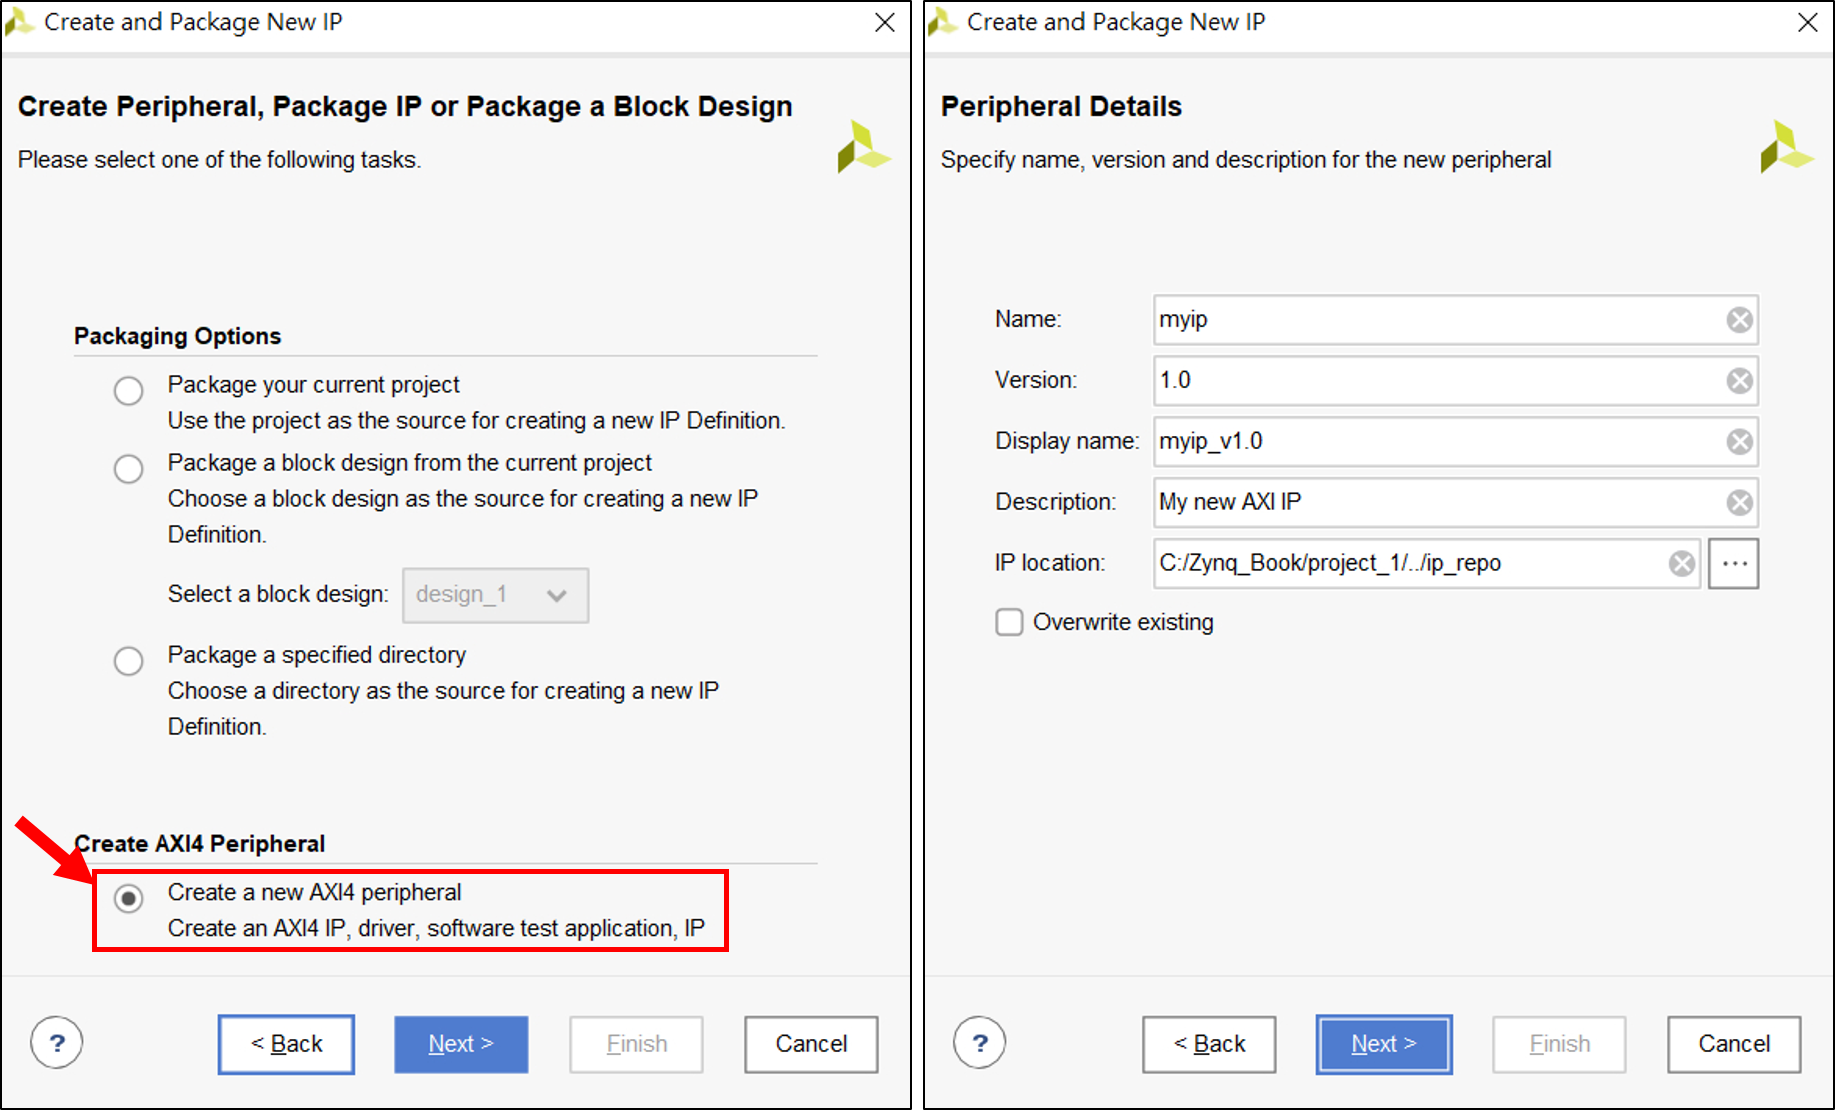
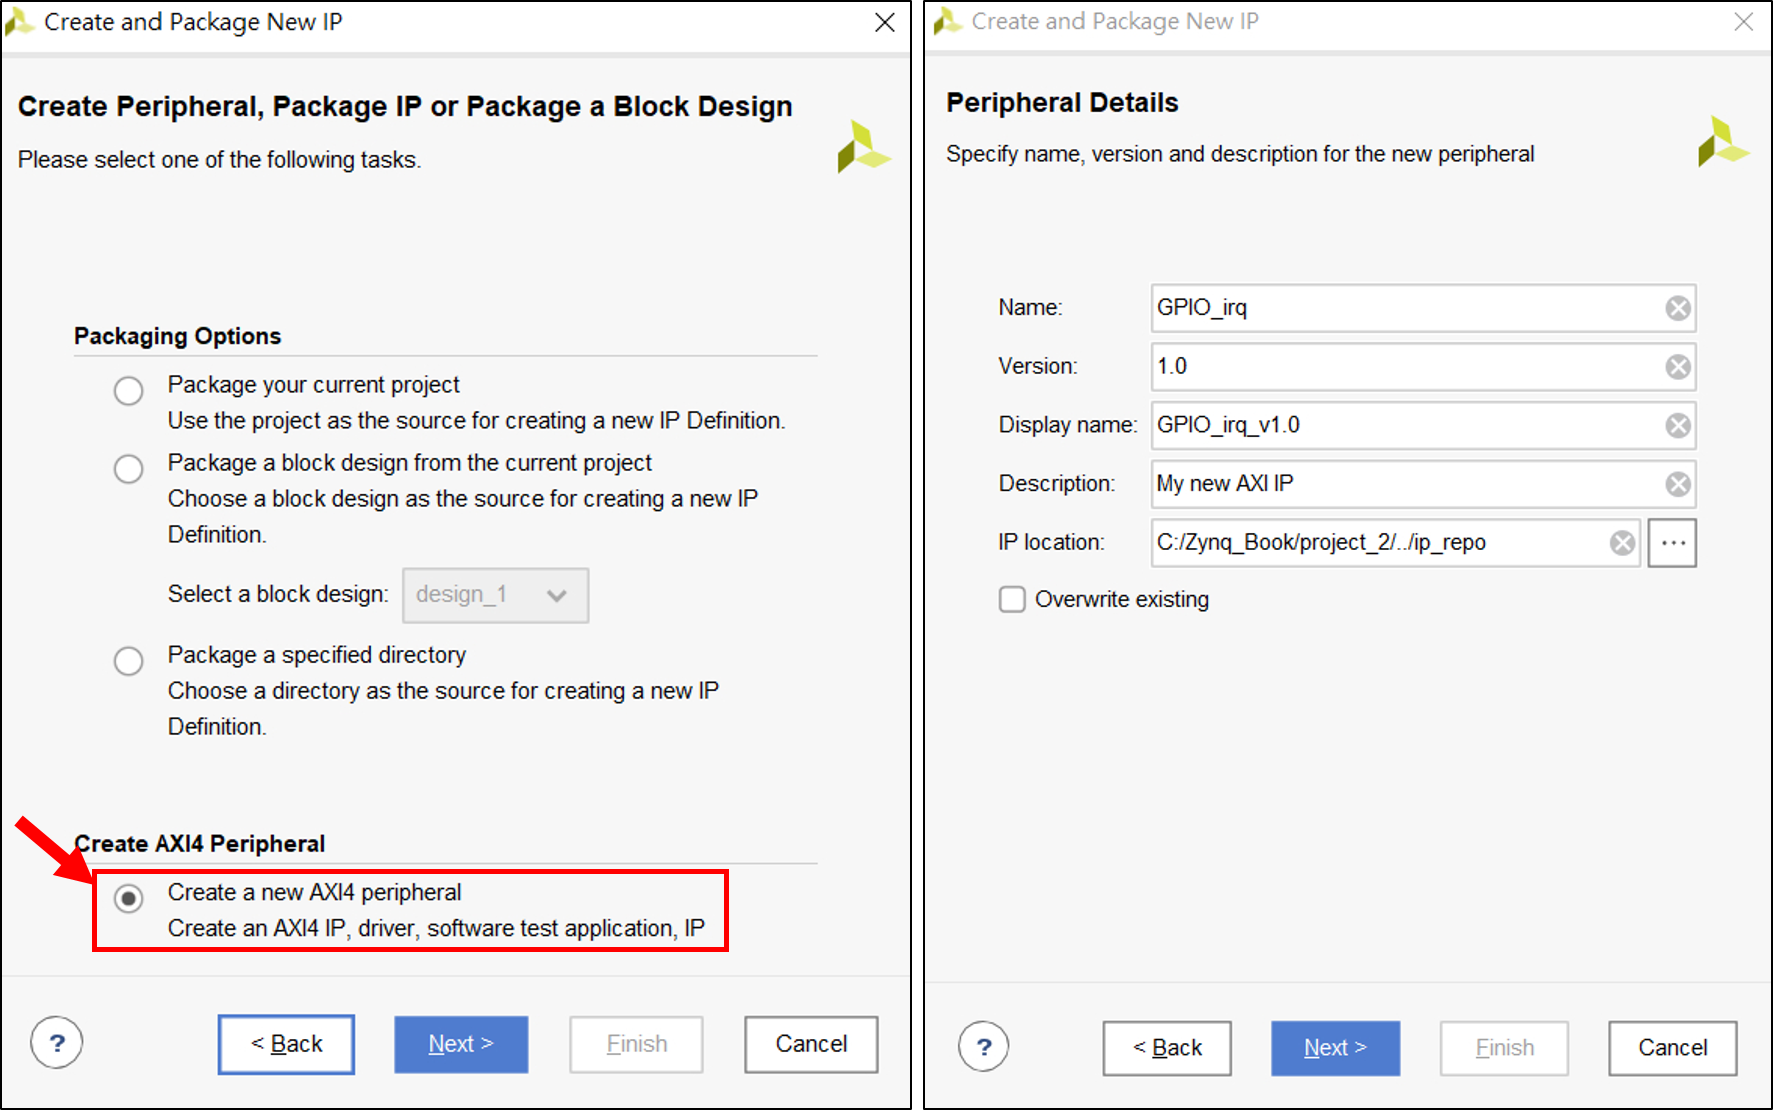
將IP名稱從myip改為GPIO_irq

diff --git a/README.md b/README.md
@@ -21,15 +21,17 @@
 <p align=center><img src="https://github.com/weirenxue/zcu111-Custom-IP-GPIO-IRQ/blob/feature-create-custom-ip/pic/Edit_IP.png"  title="Edit IP" width="60%"></p>
 
 #### 5. 此時會自動開啟一個新的Vivado視窗，這是IP的專案，在Design Sources中會看到兩個.v檔(.v for verilog and .vhd for VHDL)，檔名是根據IP名稱取的，因此可能略有不同。
-    1. myip_v1_0(myip_v1_0.v)：包裝IP的.v檔，只添加或刪除I/O。
-    2. myip_v1_0_S00_AXI_inst:myip_V1_0_S00_AXI：IP本體，要添加或刪除功能都在此檔案內。
+    1. GPIO_irq_v1_0(GPIO_irq_v1_0.v)：
+		包裝IP的hdl，只添加或刪除I/O。
+    2. GPIO_irq_v1_0_S00_AXI_inst:GPIO_irq_v1_0_S00_AXI(GPIO_irq_v1_0_S00_AXI.v)：
+		IP本體，要添加或刪除功能都在此檔案內。
 <p align=center><img src="https://github.com/weirenxue/zcu111-Custom-IP-GPIO-IRQ/blob/feature-create-custom-ip/pic/IP_verilog.png"  title="IP verilog" width="50%"></p>
 
 
-#### 6. 先修改myip_v1_0_S00_AXI_inst:myip_v1_0_S00_AXI(myip_v1_0_S00_AXI.v)，並存檔。
+#### 6. 先修改GPIO_irq_v1_0_S00_AXI.v，並存檔。
 <p align=center><img src="https://github.com/weirenxue/zcu111-Custom-IP-GPIO-IRQ/blob/feature-create-custom-ip/pic/Inst_verilog.png"  title="Instance verilog" width="50%"></p>
 
-#### 7. 再修改myip_v1_0(myip_v1_0.v)，存檔後確定沒有語法錯誤的提示。
+#### 7. 再修改GPIO_irq_v1_0.v，存檔後確定沒有語法錯誤的提示。
 <p align=center><img src="https://github.com/weirenxue/zcu111-Custom-IP-GPIO-IRQ/blob/feature-create-custom-ip/pic/Wrapper_verilog.png"  title="Wrapper verilog" width="50%"></p>
 
 #### 8. 回到Package IP頁面中的Port and Interfaces，點擊上排藍字，自動合併改變。
